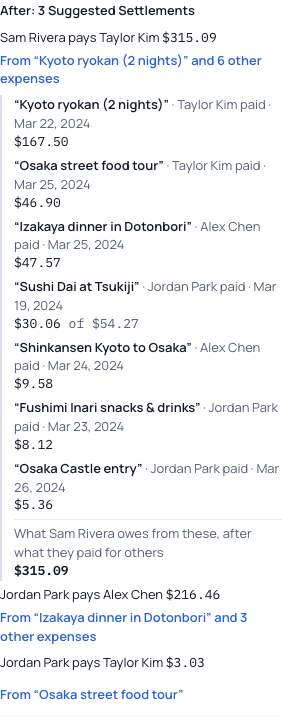
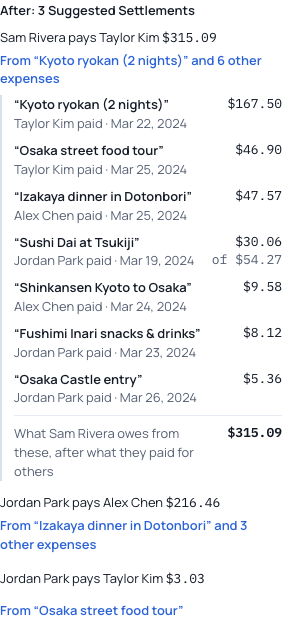
Give each source's amount its own column in "Why these payments?"
On desktop the After list sits in a half-width column, where the sources'
figures wrapped under their titles. Each source is now a two-column row:
title with who paid and when beneath it, and the amount right-aligned
("of $54.27" under a partial one). After entries with details get more
room between them.

diff --git a/src/components/payment-sources.tsx b/src/components/payment-sources.tsx
@@ -51,22 +51,25 @@ export function PaymentSources({
       <summary className="inline-flex min-h-11 cursor-pointer items-center rounded-md font-semibold text-accent">
         {summary}
       </summary>
-      <ul className="mt-1 flex flex-col gap-1 border-l-2 border-border pl-3">
+      {/* Amounts keep their own column, so a narrow panel wraps the titles, never the figures. */}
+      <ul className="mt-1 flex flex-col gap-2 border-l-2 border-border pl-3">
         {described.map(({ source, title, detail }) => (
-          <li key={`${source.kind}-${source.id}`} className="flex flex-wrap justify-between gap-x-3">
-            <span className="min-w-0 break-words">
-              <span className="font-semibold">{title}</span>
-              {detail && <span className="text-text-secondary"> · {detail}</span>}
+          <li key={`${source.kind}-${source.id}`} className="grid grid-cols-[minmax(0,1fr)_auto] gap-x-3">
+            <span className="break-words">
+              <span className="block font-semibold">{title}</span>
+              {detail && <span className="block text-text-secondary">{detail}</span>}
             </span>
-            <span className="amount">
+            <span className="amount text-right">
               {money(source.amount)}
-              {source.amount < source.full && <span className="text-text-secondary"> of {money(source.full)}</span>}
+              {source.amount < source.full && (
+                <span className="block text-text-secondary">of {money(source.full)}</span>
+              )}
             </span>
           </li>
         ))}
-        <li className="flex flex-wrap justify-between gap-x-3 border-t border-border-subtle pt-1 text-text-secondary">
+        <li className="grid grid-cols-[minmax(0,1fr)_auto] gap-x-3 border-t border-border-subtle pt-2 text-text-secondary">
           <span>What {payerName} owes from these, after what they paid for others</span>
-          <span className="amount font-semibold text-text-primary">{money(amount)}</span>
+          <span className="amount text-right font-semibold text-text-primary">{money(amount)}</span>
         </li>
       </ul>
     </details>

diff --git a/src/components/why-these-payments.tsx b/src/components/why-these-payments.tsx
@@ -508,7 +508,8 @@ function PaymentList<E extends DebtEdge>({
       <h4 id={titleId} className="text-sm font-semibold">
         {title}
       </h4>
-      <ul aria-labelledby={titleId} className="mt-2 flex flex-col gap-1 text-sm">
+      {/* Entries with details need more room between them, or one's sources run into the next. */}
+      <ul aria-labelledby={titleId} className={`mt-2 flex flex-col text-sm ${detail ? "gap-3" : "gap-1"}`}>
         {edges.map((e) => (
           <li key={`${e.fromId}-${e.toId}`}>
             {nameOf(e.fromId)} {verb} {nameOf(e.toId)} <span className="amount">{money(e.amount)}</span>

diff --git a/DESIGN.md b/DESIGN.md
@@ -346,7 +346,7 @@ The Group page's Settle up and Balances panels: the page's focal point, so they 
 - **Above them**, the Group header stays short: the back link, the Group name (39px extrabold) with the Activity icon and the Group settings cog, then one row of the Members' overlapping 32px avatars and "4 members, $1,234.56 across 12 expenses" (13px graphite, the total in the mono figure style). The description and per-currency subtotals are not shown on the Group page. The header sits 32px above Settle up, the column's section gap.
 - **Shape:** 14px radius, no shadow. No border in light theme (white on paper is edge enough); dark theme keeps a faint hairline (`border-panel`, which is `border-subtle` in dark). The 1px border is always there, transparent in light, so nothing shifts between themes.
 - **Padding:** 20px on phones, 28px from 640px. Heading 20px extrabold.
-- **Settle up** has four states. *Open Debts*: the header line counts the payments and their total; the signed-in User's own payment leads as the largest figure (avatars 48px, "You pay Taylor Kim" or "Taylor Kim pays you" in owe red or owed green over the amount, and a primary Record this payment), then everyone else's Suggested Settlements as single rows (payer → payee avatars, "Sam Rivera pays Taylor Kim", figure; on phones the names drop to their own line so a long name never pushes the figure out), with no per-row action, then a secondary Record a payment and a quiet "Why these payments?" that loads the graph on demand (always there in Open Debts). Below its graph, the panel's After list carries what the main view leaves out: under each Suggested Settlement, a one-line reason in secondary text when its two Members never shared an Expense ("Sam and Taylor never shared an Expense; settling directly saves the Group a Settlement."), and a cobalt disclosure, "From “Kyoto ryokan (2 nights)” and 6 other expenses", that opens to every source with its amount and the total the suggestion adds up to. Record a payment shows only when the viewer has no Suggested Settlement of their own (Guests, or a signed-in User with none); a User with one records through Record this payment, whose form can be changed to any Settlement. A User with no suggestion of their own reads "You're settled up" (text only, no icon) or how much Small Change they hold, in extrabold first. *Small Change*: the User's own line when signed in ("You're settled up", text only, at a zero Balance), then "$0.32 of Small Change left; nothing worth a payment." with a secondary Clear Small Change on the right; no suggestion list and no graph. *Settled Up*: the Settled Up Moment. *No Expenses*: the Members' avatars, "No Expenses yet" (31px extrabold) and a primary Add the first Expense, the page's only call to action: the floating Add Expense is hidden. Empty means nothing recorded at all: Settlements left after every Expense is deleted still show as Open Debts.
+- **Settle up** has four states. *Open Debts*: the header line counts the payments and their total; the signed-in User's own payment leads as the largest figure (avatars 48px, "You pay Taylor Kim" or "Taylor Kim pays you" in owe red or owed green over the amount, and a primary Record this payment), then everyone else's Suggested Settlements as single rows (payer → payee avatars, "Sam Rivera pays Taylor Kim", figure; on phones the names drop to their own line so a long name never pushes the figure out), with no per-row action, then a secondary Record a payment and a quiet "Why these payments?" that loads the graph on demand (always there in Open Debts). Below its graph, the panel's After list carries what the main view leaves out: under each Suggested Settlement, a one-line reason in secondary text when its two Members never shared an Expense ("Sam and Taylor never shared an Expense; settling directly saves the Group a Settlement."), and a cobalt disclosure, "From “Kyoto ryokan (2 nights)” and 6 other expenses", that opens to every source (its title, then who paid and when in secondary text) with its amount in a right-aligned column of its own, so the narrow After column wraps titles, never figures, and ends on the total the suggestion adds up to. Record a payment shows only when the viewer has no Suggested Settlement of their own (Guests, or a signed-in User with none); a User with one records through Record this payment, whose form can be changed to any Settlement. A User with no suggestion of their own reads "You're settled up" (text only, no icon) or how much Small Change they hold, in extrabold first. *Small Change*: the User's own line when signed in ("You're settled up", text only, at a zero Balance), then "$0.32 of Small Change left; nothing worth a payment." with a secondary Clear Small Change on the right; no suggestion list and no graph. *Settled Up*: the Settled Up Moment. *No Expenses*: the Members' avatars, "No Expenses yet" (31px extrabold) and a primary Add the first Expense, the page's only call to action: the floating Add Expense is hidden. Empty means nothing recorded at all: Settlements left after every Expense is deleted still show as Open Debts.
 - **Balances** is a T-account: an Owe column (up-right arrow, debt red) and a Get back column (down-left arrow, credit green), largest first, each closing on its total; Members at zero share one line, "Settled up: Marcus Webb, Olivia Hayes", rather than $0.00 rows; a check line confirms the two sides reconcile to zero. The columns stack on phones. A long name wraps at whole words and pushes its figure onto its own line rather than breaking a word or squeezing the figure. Hidden once Settled Up, with a quiet Show / Hide. Every Member listed opens their Member Statement: a Balance row is one button (hover tints it hover slate at 60%, bleeding 8px past its column; focus rings the whole row), and each name in the "Settled up" line is an inline button, underlined in control edge (cobalt on hover), whose 44px hit area extends past the text without moving the line. A 13px graphite line closes the panel: "Select a Member to see their Member Statement."
 
 **The White Panel Rule.** On the Group page, Settle up and Balances sit on white hero panels (14px radius, no shadow, borderless in light theme and a faint hairline in dark); everything after them stays on the page background, so the hero reads as the page's focal point.
